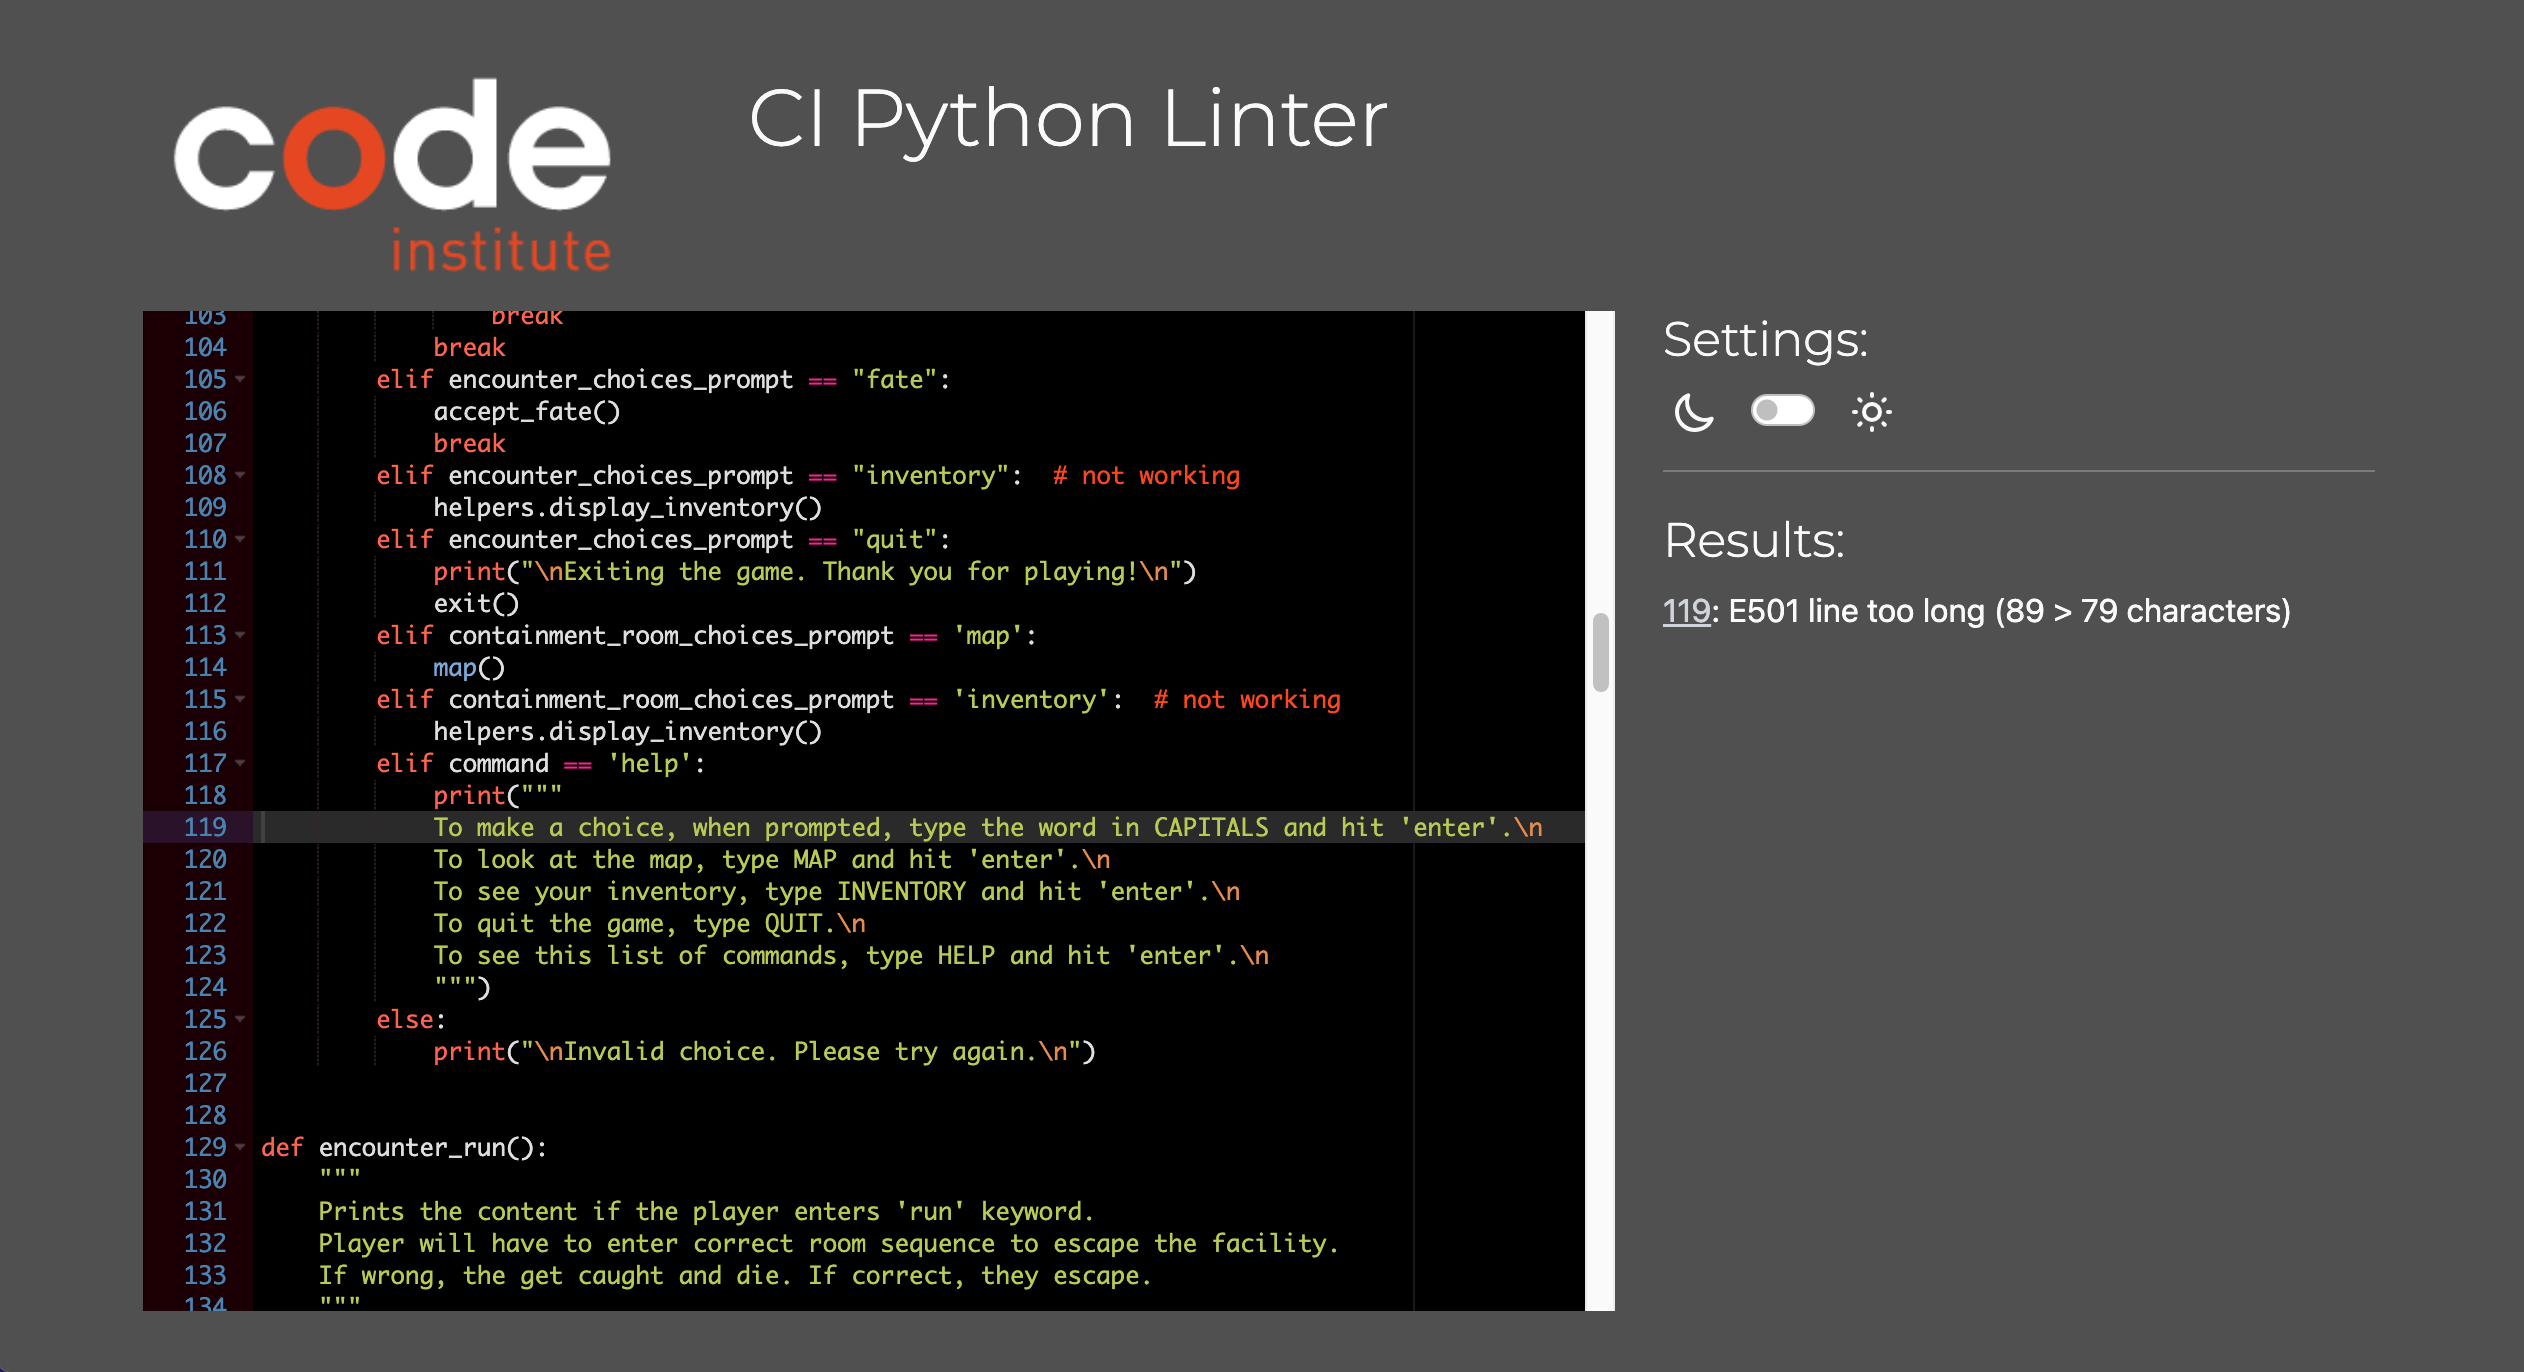
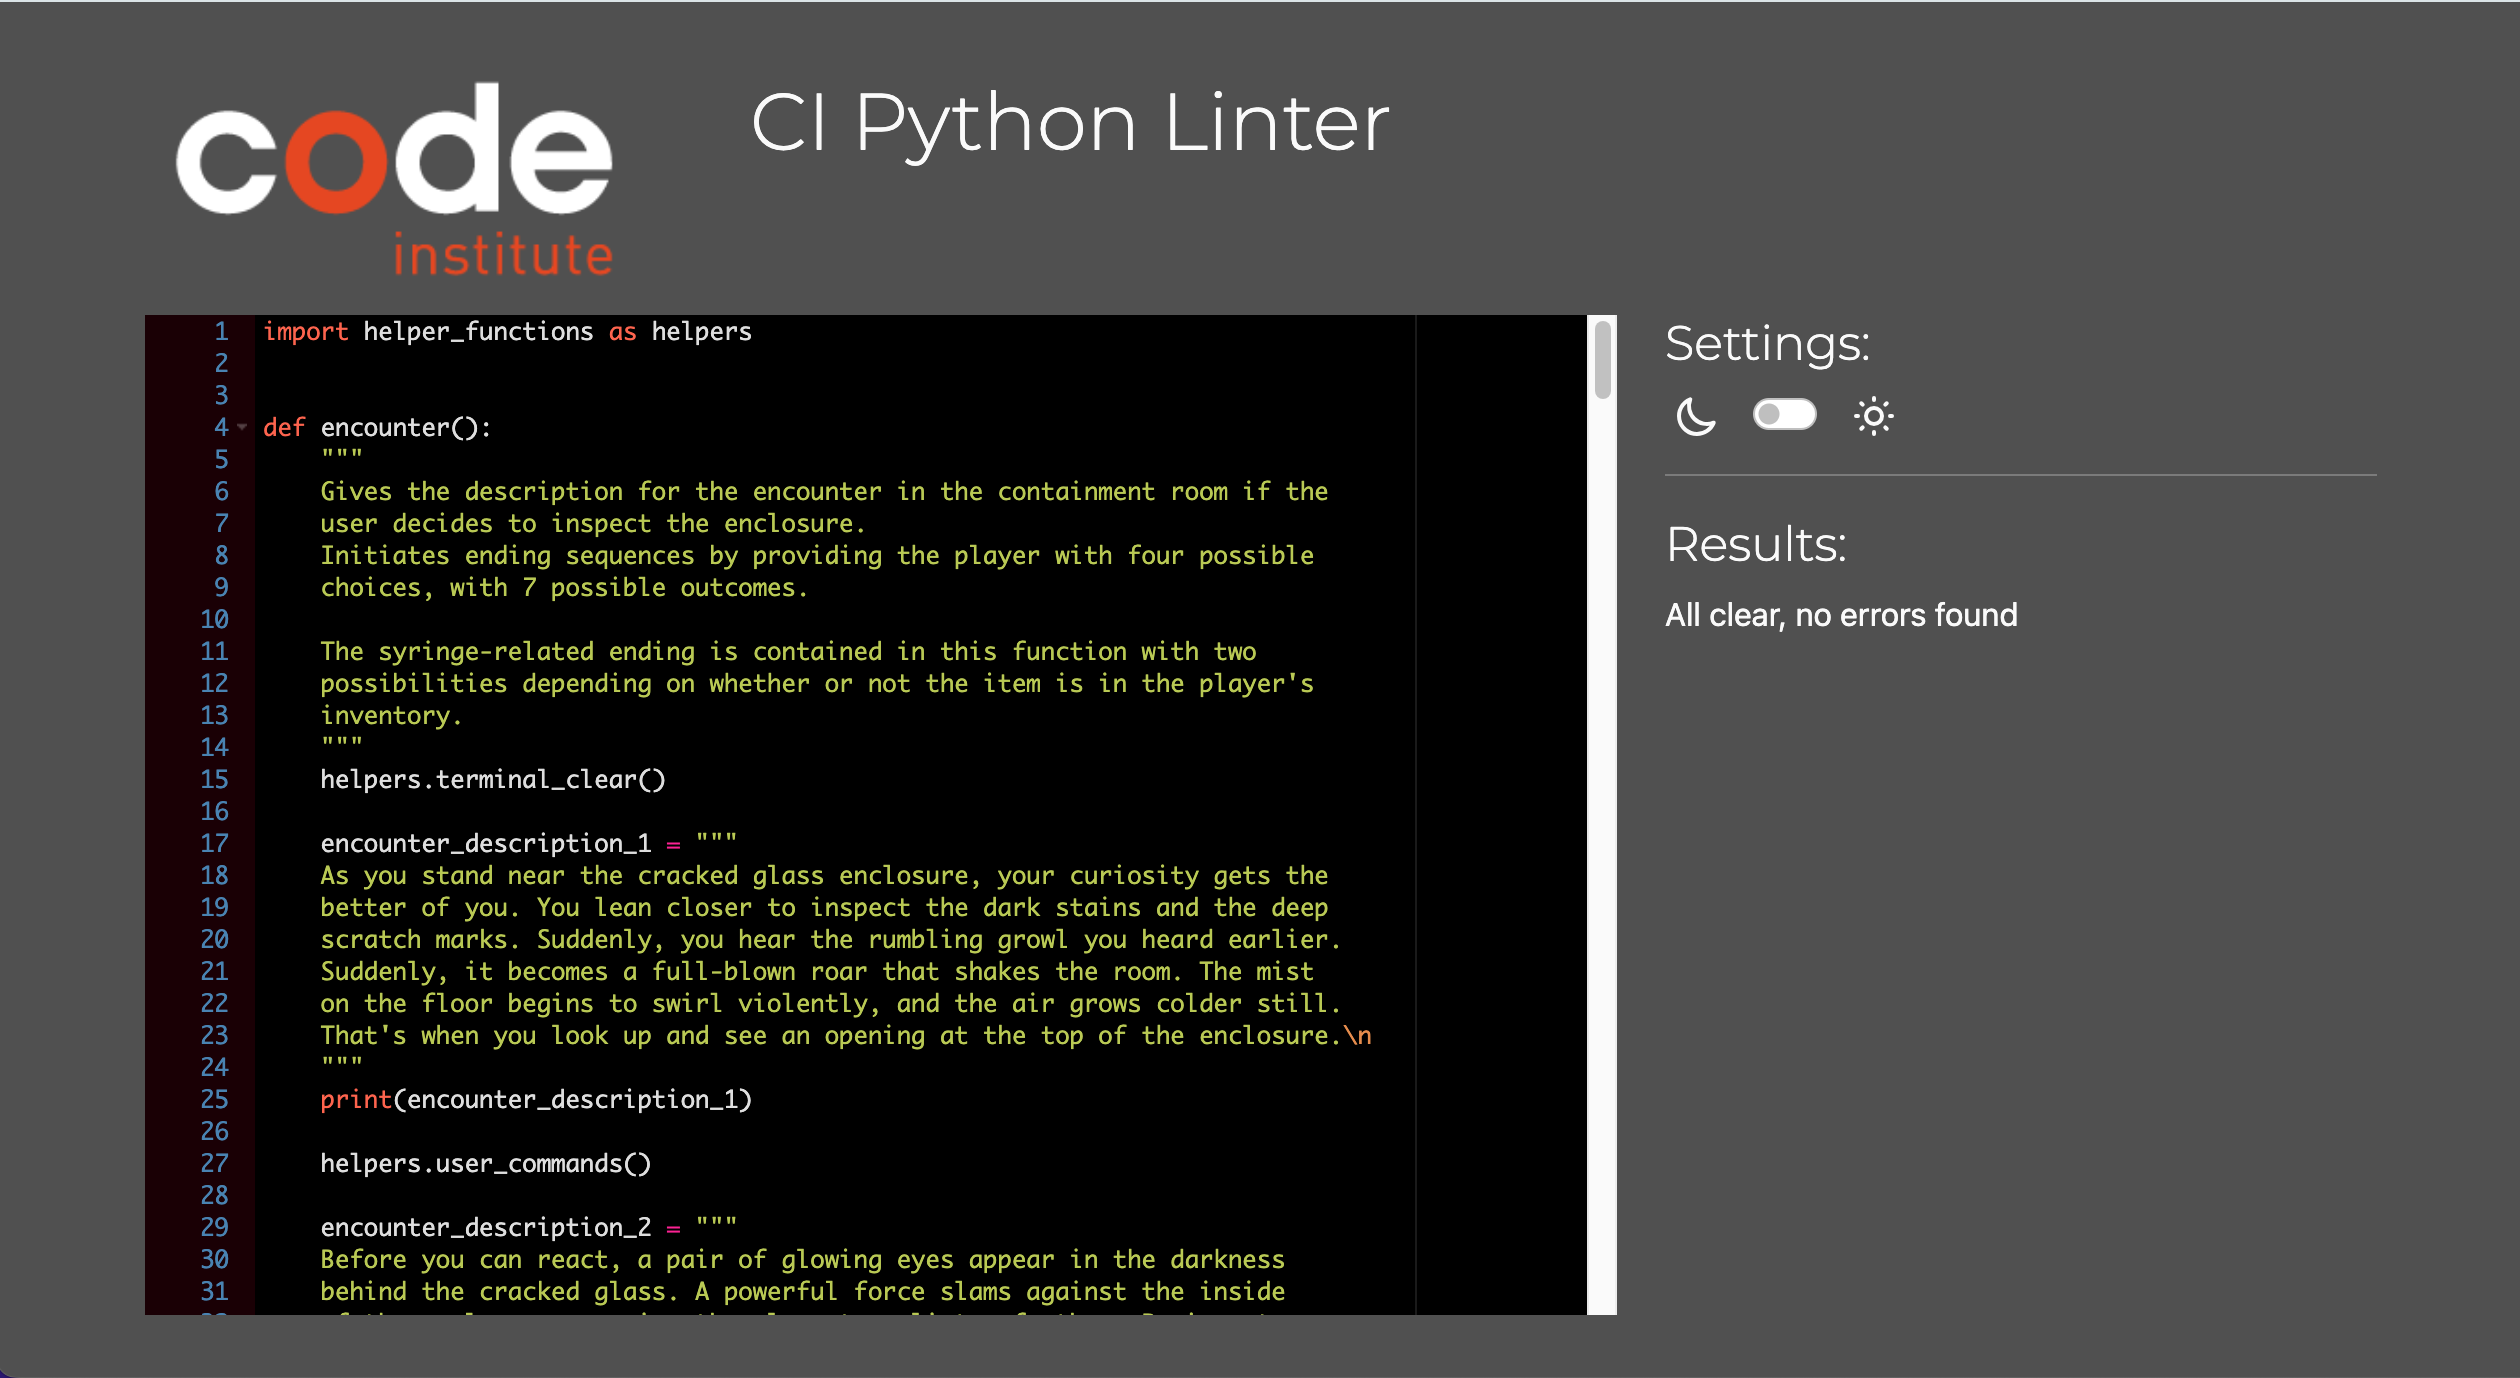
Finish adding line breaks to long strings.

Changed region(s): [[0.031, 0.0612, 0.8976, 0.949], [0.2786, 0.0612, 0.5571, 0.1224]]

diff --git a/run.py b/run.py
@@ -208,7 +208,8 @@ def observation_chamber():
             exit()
         elif observation_chamber_prompt == 'help':
             print("""
-            To make a choice, when prompted, type the word in CAPITALS and hit 'enter'.\n
+            To make a choice, when prompted, type the word in CAPITALS \
+                and hit 'enter'.\n
             To look at the map, type MAP and hit 'enter'.\n
             To see your inventory, type INVENTORY and hit 'enter'.\n
             To quit the game, type QUIT.\n
@@ -301,7 +302,8 @@ def storage_closet():
             helpers.display_inventory()
         elif storage_closet_prompt == 'help':
             print("""
-            To make a choice, when prompted, type the word in CAPITALS and hit 'enter'.\n
+            To make a choice, when prompted, type the word in CAPITALS \
+                and hit 'enter'.\n
             To look at the map, type MAP and hit 'enter'.\n
             To see your inventory, type INVENTORY and hit 'enter'.\n
             To quit the game, type QUIT.\n
@@ -381,7 +383,8 @@ def office():
             helpers.display_inventory()
         elif office_choices_prompt == 'help':
             print("""
-            To make a choice, when prompted, type the word in CAPITALS and hit 'enter'.\n
+            To make a choice, when prompted, type the word in CAPITALS \
+                and hit 'enter'.\n
             To look at the map, type MAP and hit 'enter'.\n
             To see your inventory, type INVENTORY and hit 'enter'.\n
             To quit the game, type QUIT.\n
@@ -471,7 +474,8 @@ def laboratory():
             helpers.display_inventory()
         elif office_choices_prompt == 'help':
             print("""
-            To make a choice, when prompted, type the word in CAPITALS and hit 'enter'.\n
+            To make a choice, when prompted, type the word in CAPITALS \
+                and hit 'enter'.\n
             To look at the map, type MAP and hit 'enter'.\n
             To see your inventory, type INVENTORY and hit 'enter'.\n
             To quit the game, type QUIT.\n
@@ -559,7 +563,8 @@ def morgue():
             helpers.display_inventory()
         elif morgue_choices_prompt == 'help':
             print("""
-            To make a choice, when prompted, type the word in CAPITALS and hit 'enter'.\n
+            To make a choice, when prompted, type the word in CAPITALS \
+                and hit 'enter'.\n
             To look at the map, type MAP and hit 'enter'.\n
             To see your inventory, type INVENTORY and hit 'enter'.\n
             To quit the game, type QUIT.\n
@@ -638,7 +643,8 @@ def break_room():
             helpers.display_inventory()
         elif break_room_choices_prompt == 'help':
             print("""
-            To make a choice, when prompted, type the word in CAPITALS and hit 'enter'.\n
+            To make a choice, when prompted, type the word in CAPITALS \
+                and hit 'enter'.\n
             To look at the map, type MAP and hit 'enter'.\n
             To see your inventory, type INVENTORY and hit 'enter'.\n
             To quit the game, type QUIT.\n
@@ -718,7 +724,8 @@ def security_room():
             helpers.display_inventory()
         elif security_room_choices_prompt == 'help':
             print("""
-            To make a choice, when prompted, type the word in CAPITALS and hit 'enter'.\n
+            To make a choice, when prompted, type the word in CAPITALS \
+                and hit 'enter'.\n
             To look at the map, type MAP and hit 'enter'.\n
             To see your inventory, type INVENTORY and hit 'enter'.\n
             To quit the game, type QUIT.\n

diff --git a/helper_functions.py b/helper_functions.py
@@ -9,12 +9,12 @@ def title_screen():
     """
     terminal_clear()
     title = text2art("Echoes  of  the  Abyss", font="smaller", chr_ignore=True)
-    welcome_message = "Welcome to Echoes of the Abyss, a choose your \
-    own adventure game.\n"
+    welcome_message = "Welcome to Echoes of the Abyss, a choose \
+        your own adventure game.\n"
     instructions = """
     You will be able to make multiple choices in this game.\n
     To make a choice, when prompted, type the word in CAPITALS \
-    and hit 'enter'.\n
+        and hit 'enter'.\n
     To look at the map, type MAP and hit 'enter'.\n
     To see your inventory, type INVENTORY and hit 'enter'.\n
     To quit the game, type QUIT.\n

diff --git a/ending_sequences.py b/ending_sequences.py
@@ -116,7 +116,8 @@ you whole."\n
             helpers.display_inventory()
         elif command == 'help':
             print("""
-            To make a choice, when prompted, type the word in CAPITALS and hit 'enter'.\n
+            To make a choice, when prompted, type the word in CAPITALS \
+                and hit 'enter'.\n
             To look at the map, type MAP and hit 'enter'.\n
             To see your inventory, type INVENTORY and hit 'enter'.\n
             To quit the game, type QUIT.\n

diff --git a/README.md b/README.md
@@ -406,6 +406,8 @@ Below are the steps I followed for deployment once I did the above:
 
 * [LucidChart](https://lucid.app/lucidchart/ab90e1dd-8762-4d4f-80d7-7b74bf9fbeb4/edit?invitationId=inv_40e4ed57-e5f2-4ac5-9a5c-2a17065440a2&page=0_0#) to make the tree chart displaying all possible game paths.
 
+* Background image from [freepik.com](https://www.freepik.com/free-photo/black-glitch-effect-digital-noise-texture-background_15599962.htm#query=glitch%20background&position=2&from_view=keyword&track=ais_hybrid&uuid=226904e6-aa58-4dc3-8d69-fb3838029595)
+
 ### Testing Resources
 The following were used for testing (during and after development):
 
